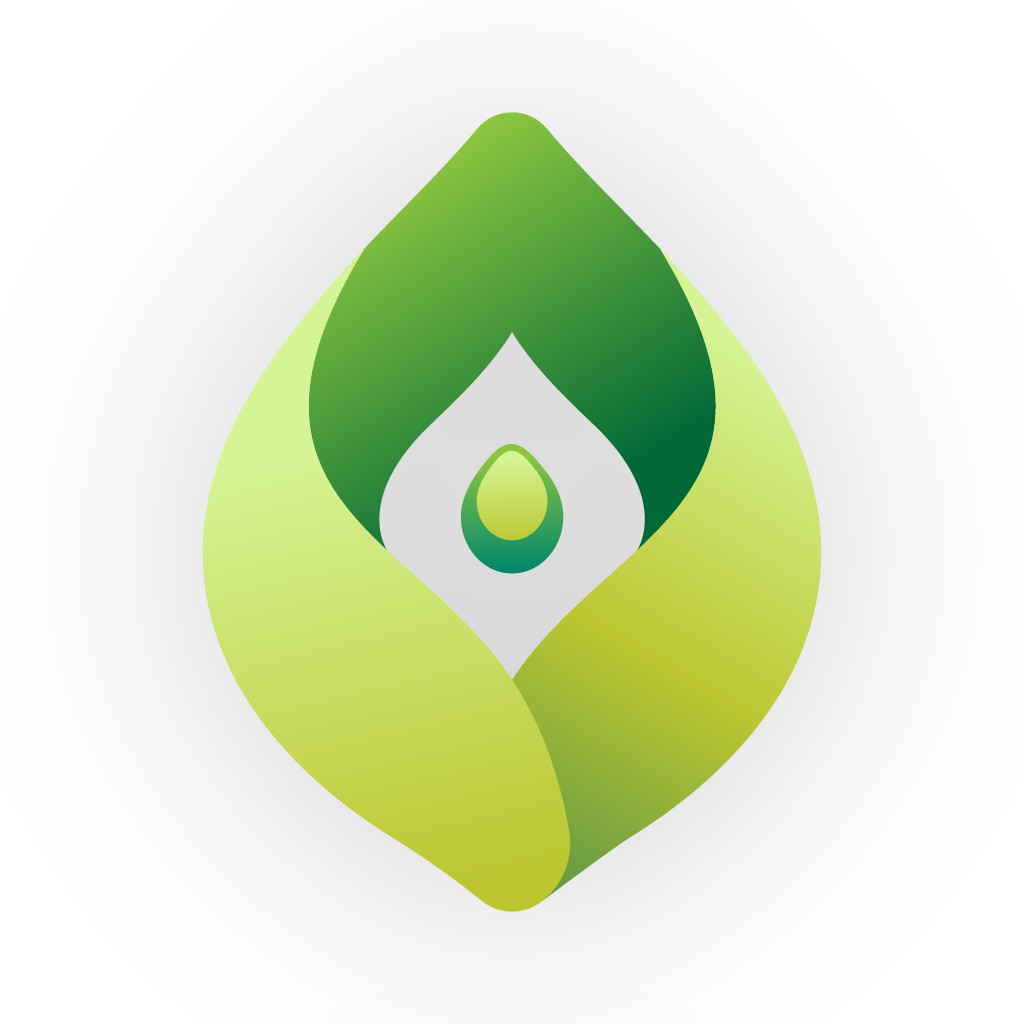
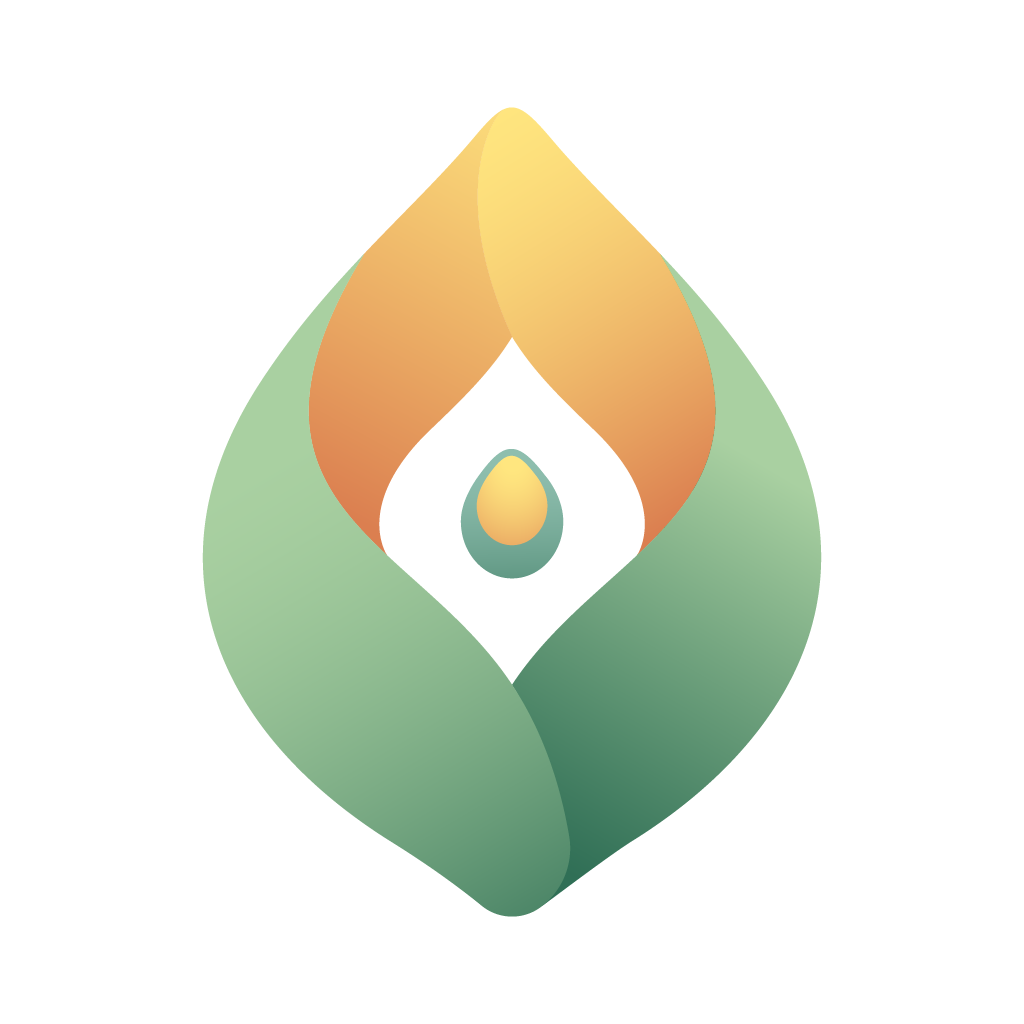
Theme

diff --git a/providers/Theme.tsx b/providers/Theme.tsx
@@ -11,6 +11,7 @@ import SplashScreen from '../screens/welcome/Splash';
 interface OurColorsProps extends ReactNativePaper.ThemeColors {
 	// Custom colors types here
 	passing: string;
+	darkBrown: string;
 	faded: string;
 	pot: string;
 	warning: string;
@@ -224,6 +225,7 @@ export const Theme: OurThemeProps = {
 		passing: '#00A083',
 		faded: '#DCE6DB',
 		pot: '#B78952',
+		darkBrown: '#613722',
 		accent: '#9A532F', // Secondary color for your app which complements the primary color
 		background: '#F5F7FB', // Background color for pages, such as lists
 		surface: DefaultTheme.colors.surface, // Background color for elements containing content, such as cards

diff --git a/app.config.ts b/app.config.ts
@@ -13,7 +13,7 @@ export default {
 	splash: {
 		image: './lib/assets/splash.png',
 		resizeMode: 'contain',
-		backgroundColor: '#9A532F',
+		backgroundColor: '#F5F7FB',
 	},
 	plugins: ['sentry-expo'],
 	ios: {
@@ -30,7 +30,7 @@ export default {
 	android: {
 		adaptiveIcon: {
 			foregroundImage: './lib/assets/adaptive-icon.png',
-			backgroundColor: '#9A532F',
+			backgroundColor: '#F5F7FB',
 		},
 	},
 	hooks: {

diff --git a/lib/icons/Logo.tsx b/lib/icons/Logo.tsx
@@ -2,5 +2,12 @@ import React from 'react';
 import { Image } from 'react-native';
 
 export default function Logo({ style, ...rest }) {
-	return <Image style={{ height: 150, width: 150, ...style }} {...rest} source={require('../assets/logo.png')} />;
+	return (
+		<Image
+			resizeMode='contain'
+			style={{ height: 150, width: 150, ...style }}
+			{...rest}
+			source={require('../assets/logo.png')}
+		/>
+	);
 }

diff --git a/screens/welcome/Splash.tsx b/screens/welcome/Splash.tsx
@@ -5,7 +5,7 @@ import { Theme } from '../../providers/Theme';
 export default function SplashScreen() {
 	return (
 		<Image
-			style={{ backgroundColor: Theme.colors.accent, width: '100%', height: '100%' }}
+			style={{ backgroundColor: Theme.colors.background, width: '100%', height: '100%' }}
 			source={require('../../lib/assets/splash.png')}
 		/>
 	);

diff --git a/screens/welcome/index.tsx b/screens/welcome/index.tsx
@@ -45,6 +45,6 @@ export default function WelcomeScreen({ navigation }: WelcomeScreenProps) {
 const styles = StyleSheet.create({
 	screenContainer: {
 		justifyContent: 'center',
-		backgroundColor: Theme.colors.accent,
+		backgroundColor: Theme.colors.darkBrown,
 	},
 });
